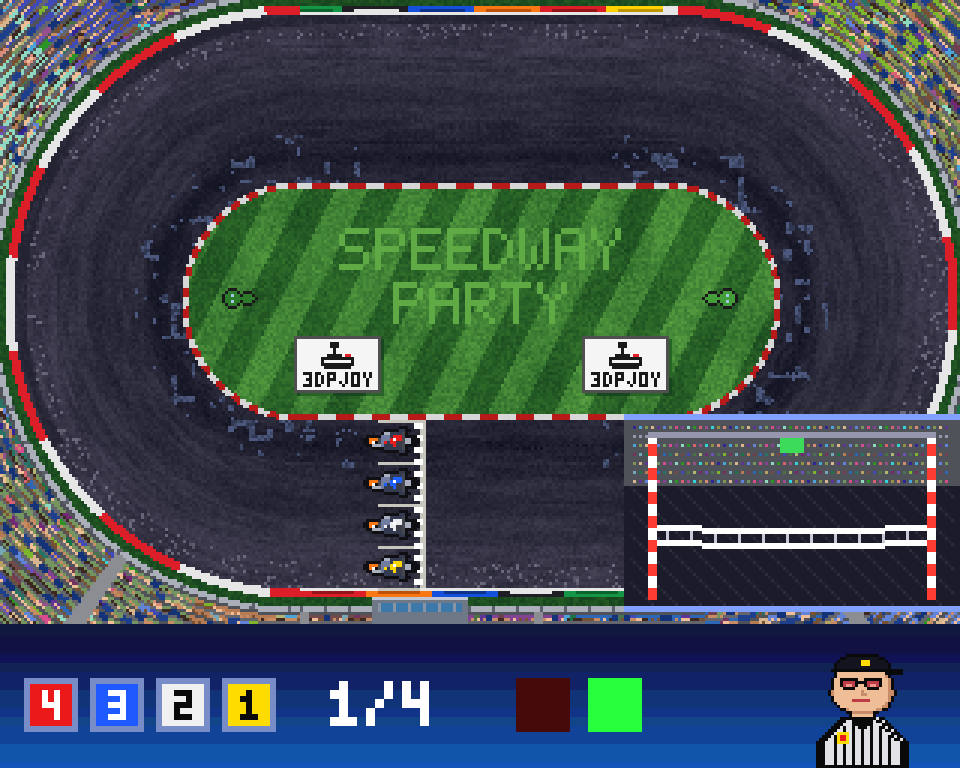
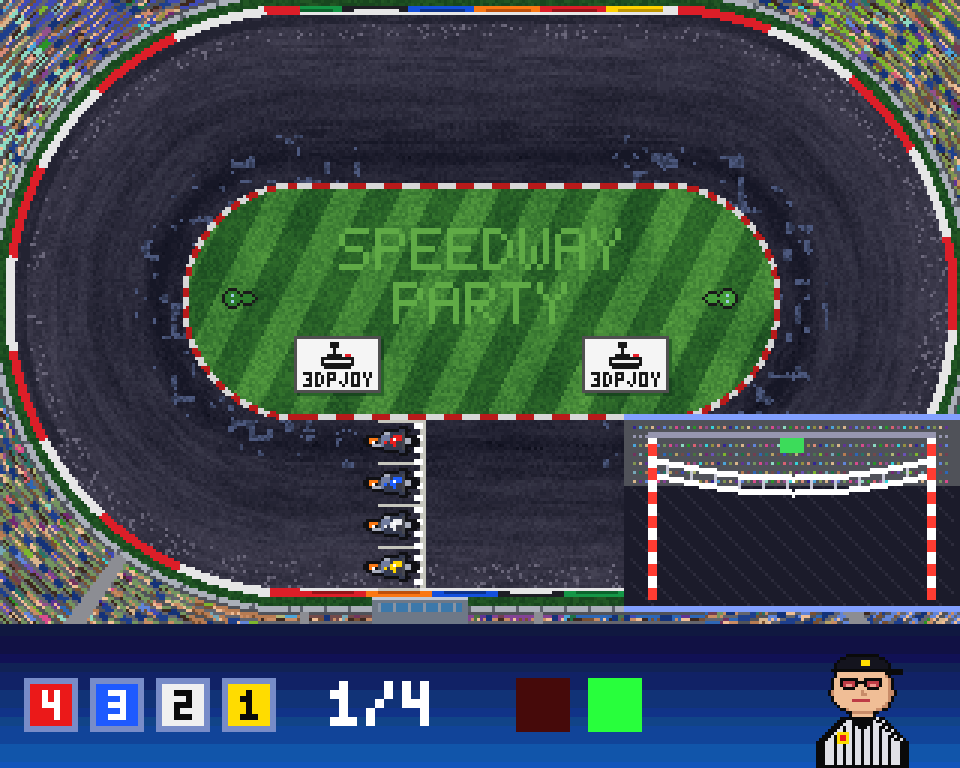
MVP: szybszy i płynniejszy odlot taśmy startowej
Taśma w okienku startu odlatuje w 12 klatek (ease-out), starą zmazuje Blitter
z zapamiętanego tła okienka. Gotowy build: release/SpeedwayParty.zip.

Changed region(s): [[0.6875, 0.5938, 0.9688, 0.7188]]

diff --git a/src/ui.c b/src/ui.c
@@ -41,7 +41,14 @@ static UBYTE pick_cursor, pick_prev;
 
 #define BORDER_RACE 0x334          /* 12-bit: ciemny beton trybun */
 static UWORD line_bg[FULL_H], line_fg[FULL_H], rainbow[48];
-static UBYTE *title_img;            /* plansza tytulowa 320x256, 8 planow (Chip RAM) */
+static UBYTE *title_img;
+/* okienko maszyny startowej (prawy dolny rog toru) */
+#define SW_X 208
+#define SW_Y 138                   /* ponizej obszaru nakladek (PANEL_Y + PANEL_H = 136) */
+#define SW_W 112
+#define SW_H 66
+#define SW_CACHE_SIZE ((ULONG)SW_H * PLAY_STRIDE)
+static UBYTE *sw_cache;                 /* tlo okienka startu (wiersze okienka, uklad ekranu), Chip RAM */            /* plansza tytulowa 320x256, 8 planow (Chip RAM) */
 
 /* ------------------------------------------------------------------ */
 
@@ -71,11 +78,13 @@ void ui_init(void)
         FreeMem(title_img, FULL_SIZE);
         title_img = 0;
     }
+    sw_cache = AllocMem(SW_CACHE_SIZE, MEMF_CHIP);      /* bez pamieci: taśma zmazywana pikselami */
 }
 
 void ui_free(void)
 {
     if (title_img) FreeMem(title_img, FULL_SIZE);
+    if (sw_cache) FreeMem(sw_cache, SW_CACHE_SIZE);
 }
 
 static UBYTE *back(void) { return video_backbuffer(); }
@@ -787,20 +796,19 @@ static void render_tape(UBYTE *buf)
  * tasma i kaski zawodnikow. Na zielonym tasma wylatuje w gore, a okienko znika
  * w chwili ruszenia (TAPE_GONE klatek). Przy awarii maszyny: napis o starcie z flagi.
  * ------------------------------------------------------------------ */
-#define SW_X 208
-#define SW_Y 138                   /* ponizej obszaru nakladek (PANEL_Y + PANEL_H = 136) */
-#define SW_W 112
-#define SW_H 66
 #define SW_NONE 0xFF
 static UBYTE startwin_drawn[2] = { SW_NONE, SW_NONE };
 
 /* stan okienka: SW_NONE albo (klatka odlotu << 2) | lampka (0 zgaszona, 1 czerwona, 2 zielona); 3 = awaria */
-#define SW_FLY   16                /* klatki odlotu tasmy w okienku (0.32 s) - okienko znika po nich */
+#define SW_FLY   12                /* klatki odlotu tasmy w okienku (0.24 s) - okienko znika po nich */
+#define SW_RISE  54                /* o ile tasma idzie w gore (az za gorna krawedz okienka) */
+#define SW_BOW   8                 /* ugiecie srodka w polowie odlotu */
 #define SW_TAPE_REST (SW_Y + 38)   /* tasma w spoczynku */
 #define SW_TAPE_H 7                /* dwie wstegi po 2 px + 3 px przerwy z tasiemkami */
 #define SW_TAPE_X0 (SW_X + 11)     /* miedzy slupkami maszyny */
 #define SW_TAPE_X1 (SW_X + SW_W - 11)
-static WORD tape_prev[2][SW_W];    /* gorna krawedz wstegi w kolumnie (na bufor), -1 = brak */
+static WORD tape_prev[2][SW_W];    /* gorna krawedz tasmy w kolumnie (na bufor), -1 = brak */
+static WORD tape_rows[2][2];       /* zakres wierszy poprzedniej tasmy (na bufor), [0] < 0 = brak */
 
 static UBYTE startwin_state(void)
 {
@@ -837,6 +845,17 @@ static UBYTE startwin_px(WORD x, WORD y, UBYTE lamp)
 
 static void draw_lamp(UBYTE *b, UBYTE lamp);
 
+/* zapamietuje tlo okienka (z lampka) - potem Blitter zmazuje nim tasme jednym kopiowaniem */
+static void startwin_cache(const UBYTE *b)
+{
+    ULONG *d = (ULONG *)sw_cache;
+    const ULONG *src = (const ULONG *)(b + (LONG)SW_Y * PLAY_STRIDE);
+    UWORD n;
+    if (!d) return;
+    hw_wait_blit();
+    for (n = 0; n < SW_CACHE_SIZE / 4; n++) *d++ = *src++;
+}
+
 static void draw_startwin_static(UBYTE *b, UBYTE lamp)
 {
     WORD x, y;
@@ -867,6 +886,7 @@ static void draw_startwin_static(UBYTE *b, UBYTE lamp)
         plot(b, x, SW_Y + 7, U_GREY);
     }
     draw_lamp(b, lamp);
+    startwin_cache(b);
 }
 
 static void draw_lamp(UBYTE *b, UBYTE lamp)
@@ -876,36 +896,51 @@ static void draw_lamp(UBYTE *b, UBYTE lamp)
         for (x = SW_X + 52; x < SW_X + 60; x++) plot(b, x, y, startwin_px(x, y, lamp));
 }
 
-/* Tasma (dwie wstegi z tasiemkami) w klatce odlotu t (0 = spoczynek): konce unosza ramiona maszyny coraz
- * szybciej (t^2), srodek zostaje troche w tyle i wygina sie lukiem w dol.
- * Rysujemy tylko roznice: zamazujemy poprzednia wstege i kladziemy nowa. */
+/* Tasma (dwie wstegi z tasiemkami) w klatce odlotu t (0 = spoczynek).
+ * Odlot "ease-out": od razu wyskakuje w gore i wyhamowuje za gorna krawedzia okienka,
+ * srodek zostaje troche w tyle (luk w dol najwiekszy w polowie odlotu).
+ * Stara tasme zmazuje Blitter jednym kopiowaniem tla (sw_cache), procesor rysuje tylko nowa. */
 static void draw_tape_ribbon(UBYTE *b, UBYTE bi, WORD t, UBYTE lamp)
 {
     WORD x, r, half = (SW_TAPE_X1 - SW_TAPE_X0) / 2, mid = SW_TAPE_X0 + half;
-    LONG rise = (LONG)t * t * 42 / (SW_FLY * SW_FLY);         /* 0..42 px w gore */
+    WORD q = (WORD)(SW_FLY - t), lo = 32767, hi = -1;
+    LONG rise = (LONG)SW_RISE * (SW_FLY * SW_FLY - q * q) / (SW_FLY * SW_FLY);
+    LONG bow_max = (LONG)4 * SW_BOW * t * q / (SW_FLY * SW_FLY);
+    const WORD top = SW_Y + 3, bottom = SW_Y + SW_H - 6;       /* obszar, w ktorym widac tasme */
+
+    if (sw_cache) {
+        if (tape_rows[bi][0] >= 0) {
+            hw_wait_blit();
+            blit_copy(b, sw_cache - (LONG)SW_Y * PLAY_STRIDE, SW_X, tape_rows[bi][0], SW_W,
+                      (WORD)(tape_rows[bi][1] - tape_rows[bi][0] + 1));
+            hw_wait_blit();
+        }
+    }
     for (x = SW_TAPE_X0; x < SW_TAPE_X1; x++) {
         WORD *prev = &tape_prev[bi][x - SW_X];
         WORD d = (WORD)(x - mid);
-        WORD bow = (WORD)((LONG)t * 10 * (half * half - d * d) / ((LONG)SW_FLY * half * half));
-        WORD yy = (WORD)(SW_TAPE_REST - rise + bow);
-        if (*prev == yy) continue;
-        if (*prev >= 0)
+        WORD yy = (WORD)(SW_TAPE_REST - rise + bow_max * (half * half - d * d) / (half * half));
+        if (!sw_cache && *prev >= 0 && *prev != yy)                  /* awaryjnie: zmazywanie pikselami */
             for (r = 0; r < SW_TAPE_H; r++) {
                 WORD py = (WORD)(*prev + r);
-                if (py >= SW_Y + 3 && py < SW_Y + SW_H - 6) plot(b, x, py, startwin_px(x, py, lamp));
+                if (py >= top && py < bottom) plot(b, x, py, startwin_px(x, py, lamp));
             }
+        *prev = yy;
         for (r = 0; r < SW_TAPE_H; r++) {
             WORD py = (WORD)(yy + r);
             UBYTE c;
-            if (py < SW_Y + 3 || py >= SW_Y + SW_H - 6) continue;
+            if (py < top || py >= bottom) continue;
             /* dwie biale wstegi (wiersze 0-1 i 5-6), miedzy nimi co 8 px cienka tasiemka */
             if (r < 2 || r >= SW_TAPE_H - 2) c = U_WHITE;
             else if (((x - SW_TAPE_X0) & 7) == 3) c = U_SILVER;
             else continue;                                   /* przerwa - widac tlo */
             plot(b, x, py, c);
+            if (py < lo) lo = py;
+            if (py > hi) hi = py;
         }
-        *prev = yy;
     }
+    tape_rows[bi][0] = hi >= 0 ? lo : -1;
+    tape_rows[bi][1] = hi;
 }
 
 static void update_startwin(UBYTE *b, UBYTE bi)
@@ -922,8 +957,11 @@ static void update_startwin(UBYTE *b, UBYTE bi)
     if (old == SW_NONE || (old & 3) == 3 || lamp == 3) {
         draw_startwin_static(b, lamp);                       /* tlo raz, potem tylko zmiany */
         for (x = 0; x < SW_W; x++) tape_prev[bi][x] = -1;
+        tape_rows[bi][0] = -1;
     } else if ((old & 3) != lamp) {
+        /* zmiana swiatla: tylko lampka - w obrazie i w zapamietanym tle (tasma jej nie zaslania) */
         draw_lamp(b, lamp);
+        if (sw_cache) draw_lamp(sw_cache - (LONG)SW_Y * PLAY_STRIDE, lamp);
     }
     hw_wait_blit();
     if (lamp != 3) draw_tape_ribbon(b, bi, (WORD)(st >> 2), lamp);
